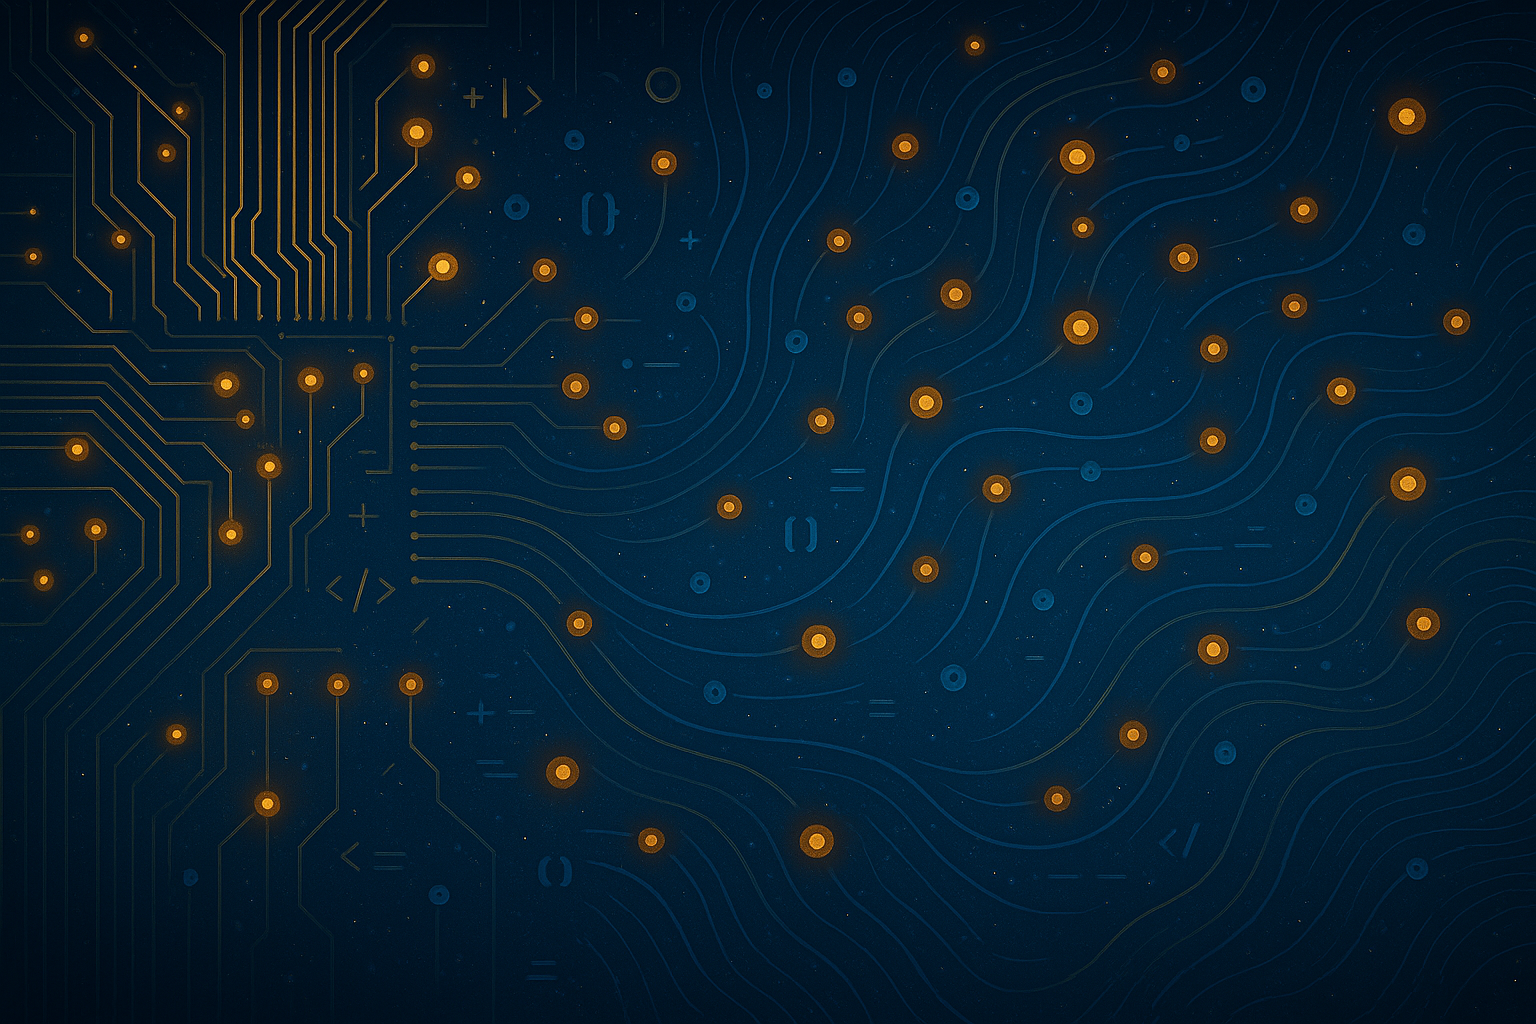
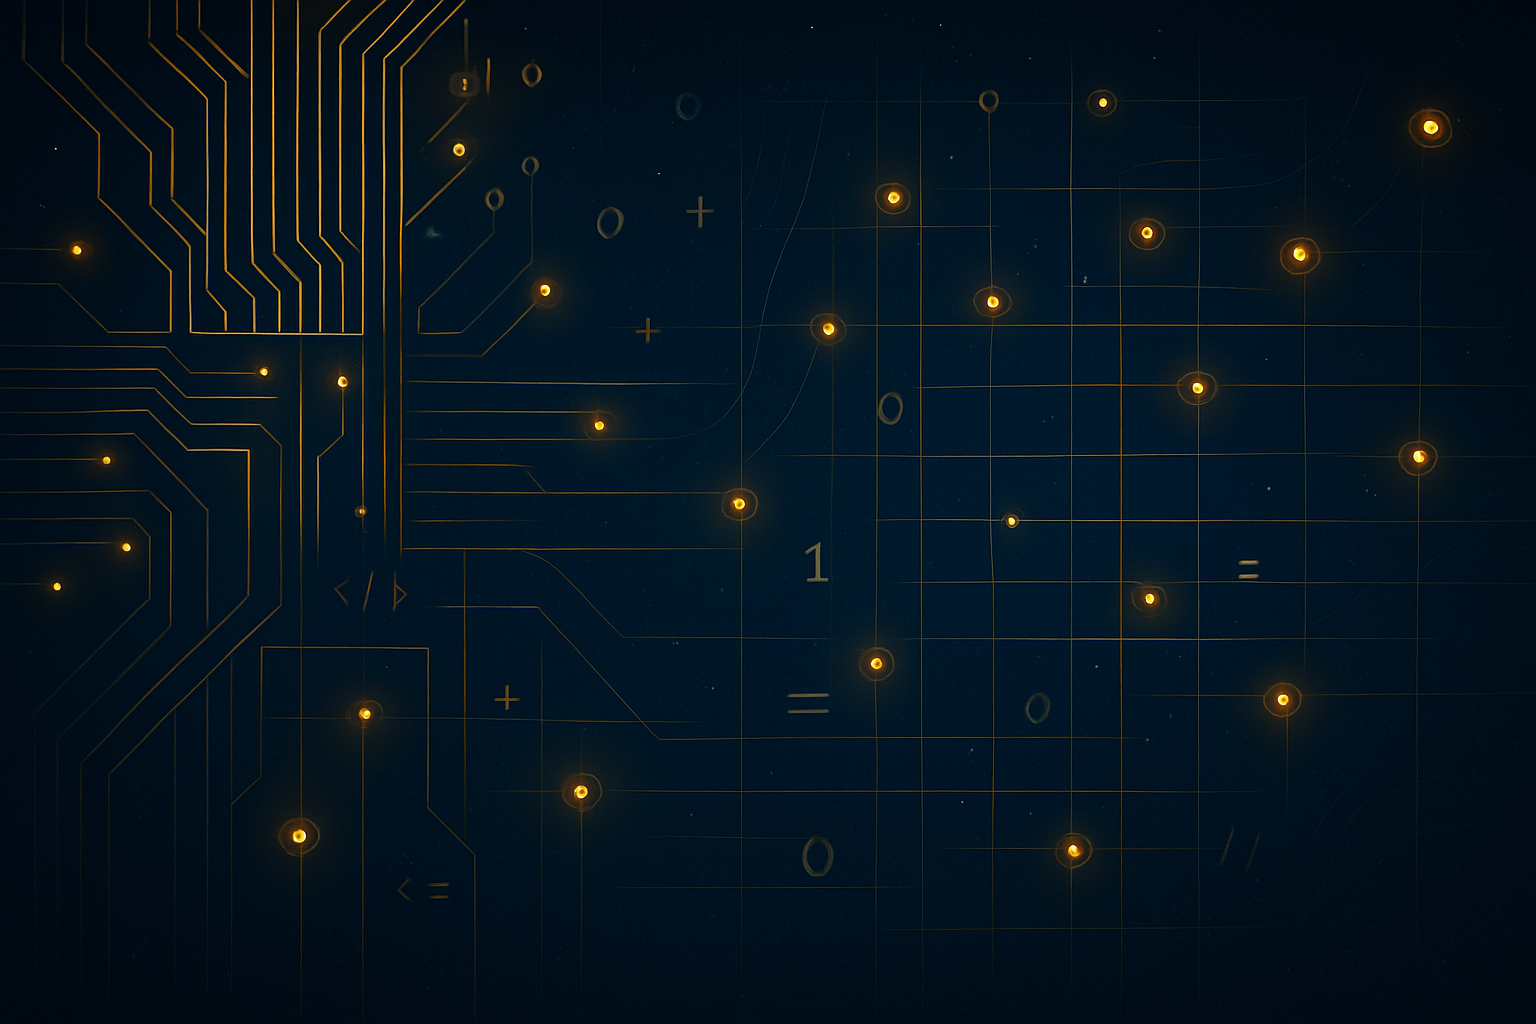
agg img

diff --git a/index.html b/index.html
@@ -97,7 +97,7 @@
           </article>
           <article>
             <span class="image">
-              <img src="images/pic06.png" alt="" />
+              <img src="images/pic04.png" alt="" />
             </span>
             <header class="major">
               <h3><a href="landing.html" class="link">ECHI DIGITALI</a></h3>
@@ -212,7 +212,7 @@
         <div class="inner">
           <ul class="icons">
             <li>
-              <a href="#" class="icon brands alt fa-telegram"
+              <a href="https://t.me/+-flOyenUdhhkYTBk" class="icon brands alt fa-telegram"
                 ><span class="label">Telegram</span></a
               >
             </li>
